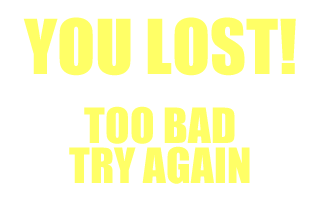
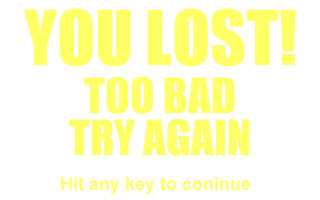
bug fixes

diff --git a/assets/js/main.js b/assets/js/main.js
@@ -19,21 +19,25 @@ $(document).ready(function() {
 		var charsUsed = "";
 		var displayStage;
 		var maxAttempts = 0;
-		var gameStatus   = "play"
+		var gameStatus   = "play";
 
-		var artists      = ["JIMI HENDRIX",
+		var artists      = ["JEFFERSON AIRPLANE",
+                            "JETRO TULL",
+                            "JIMI HENDRIX",
                             "ROLLING STONES",
                             "YOUNG RASCALS",
                             "ERIC CLAPTON"
                             ];
-		var hints        = ["Hey Joe, Are you experienced with purple haze?",
+		var hints        = ["They needed this to fly with the third President",
+                            "They had nothing to do with water, but they did have a aqualung",
+                            "Hey Joe, Are you experienced with purple haze?",
                             "They can't get satisfied",
                             "Their Lovin has to be good and they like to groove on a Sunday afternoon",
                             "He was once a bird, then he became the main ingredient in Cream"
                             ]
 		var userChoice;
 		var message = "";
-		var gameNo       = 4;
+		var gameNo       = 6;
 		var artistsName;
 		var openSelection;
         var alertFlag = 0;
@@ -52,12 +56,22 @@ $(document).ready(function() {
         initGame()
 		checkStatus();
 
-if(gameStatus = 'play') {
+//if(gameStatus = 'play') {
 
 	document.onkeyup = function(event) {
 
+                if(gameStatus == "pause") {
+                    initGame();
+                    checkStatus()
+                    $("#alertBox").html("<img src='assets/images/blank.png'>");
+                }
+
+                if(gameStatus != 'play') {
+                    return
+                }
+
                 // this will clear the you won you lost images
-                $("#alertBox").html("<img src='assets/images/blank.png'>")
+             //   $("#alertBox").html("<img src='assets/images/blank.png'>")
 
 		        updateScreen()
 
@@ -74,7 +88,7 @@ if(gameStatus = 'play') {
 
 	            } // end of UserChoiceValid condition 
 			} // end of keyup
-		} // end of gameStatus play condition
+		//} // end of gameStatus play condition
 
 
 	function initGame() {
@@ -92,6 +106,7 @@ if(gameStatus = 'play') {
         userChoice = "#";
         updateScreen();
         updateBody();
+        gameStatus = 'play';
 
 	} // end of function init game
 
@@ -127,16 +142,18 @@ if(gameStatus = 'play') {
 
     			if(artistsName.search(userChoice) != -1) {
     				message = "Yes. we found a hit!!";
-    				updateScreen()
+    			//	updateScreen()
     				$("#message").css('color','black')
     			} else {
     				maxAttempts += 1;
     				message = "The letter " + userChoice + " is not in the artists name";
     				$("#message").css('color','red')
-    				updateScreen()
-    				updateBody();
+    			//	updateScreen()
+    			//	updateBody();
     			}
     		}
+            updateScreen()
+            updateBody()
     		checkStatus()
     		//charsUsed = charsUsed + userChoice;
 
@@ -144,18 +161,18 @@ if(gameStatus = 'play') {
 
     function checkStatus() {	
     	if((displayStage == artistsName) || (maxAttempts == 6)) {			
-    		gameStatus = 'new';
+    		gameStatus = 'pause';
             alertFlag = 1;
     		if(maxAttempts == 6) {
 
                 $("#alertBox").html("<img src='assets/images/youlost.png'>")
                 $('#alertBox').show				   
     			message = "Sorry - you lost";
-                $("#deadMan").html("<img src='assets/images/"+hmimg[maxAttempts]+"'>")
+                $("#deadMan").html("<img src='assets/images/"+hmimg[6]+"'>");
 	
     		} else {
                 $("#alertBox").html("<img src='assets/images/youwon.png'>")
-                $('#alertBox').show
+                $('#alertBox').show;
     			message = "You Won - Great Job";		
     		}
     		updateScreen();
@@ -164,20 +181,22 @@ if(gameStatus = 'play') {
     			gameStatus = 'end'
     		}    		
      } // end of check current game status
-
      switch(gameStatus) {
 
      	case 'new':
      	      updateScreen();
-              var gameStatus = 'true';
      	      break;
-     	case 'end':
-     	      alert("That was the last game - Thanks for playing")
+     	case 'end':                 
+                $("#alertBox").html("<img src='assets/images/thanks.png'>")
+                $('#alertBox').show;
      	break;
      }
         // check if user wants to play another game
         //console.log(gameStatus);
-        if(gameStatus) {
+
+        console.log(gameStatus)
+        if(gameStatus == 'n') {
+            console.log("i am here")
         	initGame();
         }
     }

diff --git a/assets/css/style.css b/assets/css/style.css
@@ -47,7 +47,7 @@ body {
 
 #alertBox {
       position: absolute;
-      top: 100px;
+      top: 0px;
       margin-left: auto;
       margin-right: auto;
       z-index: 5;
